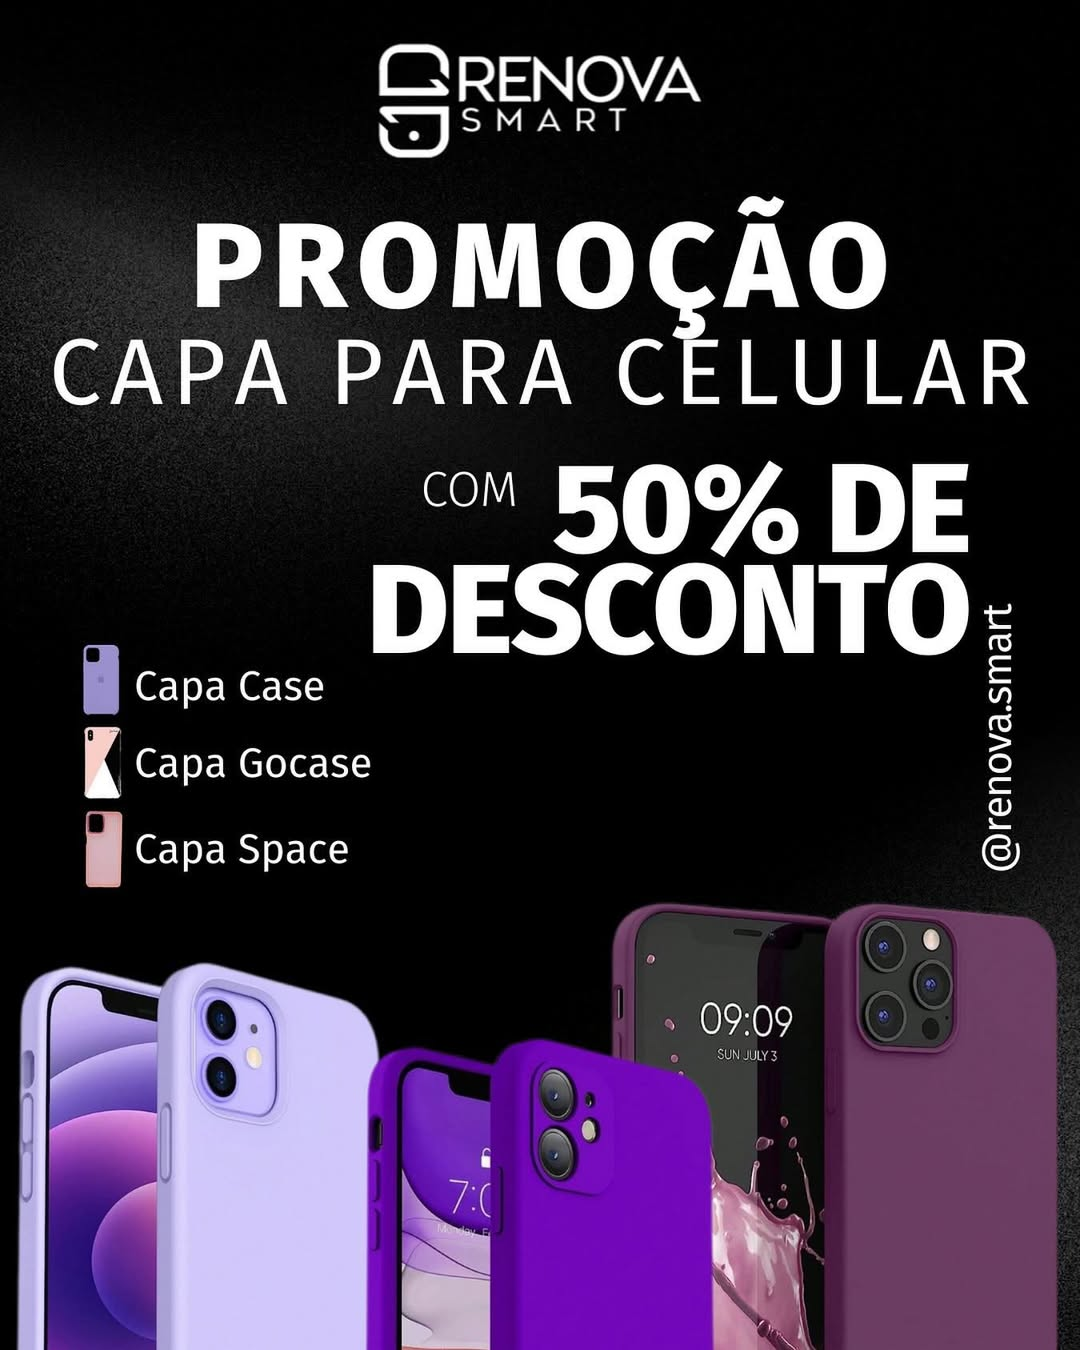
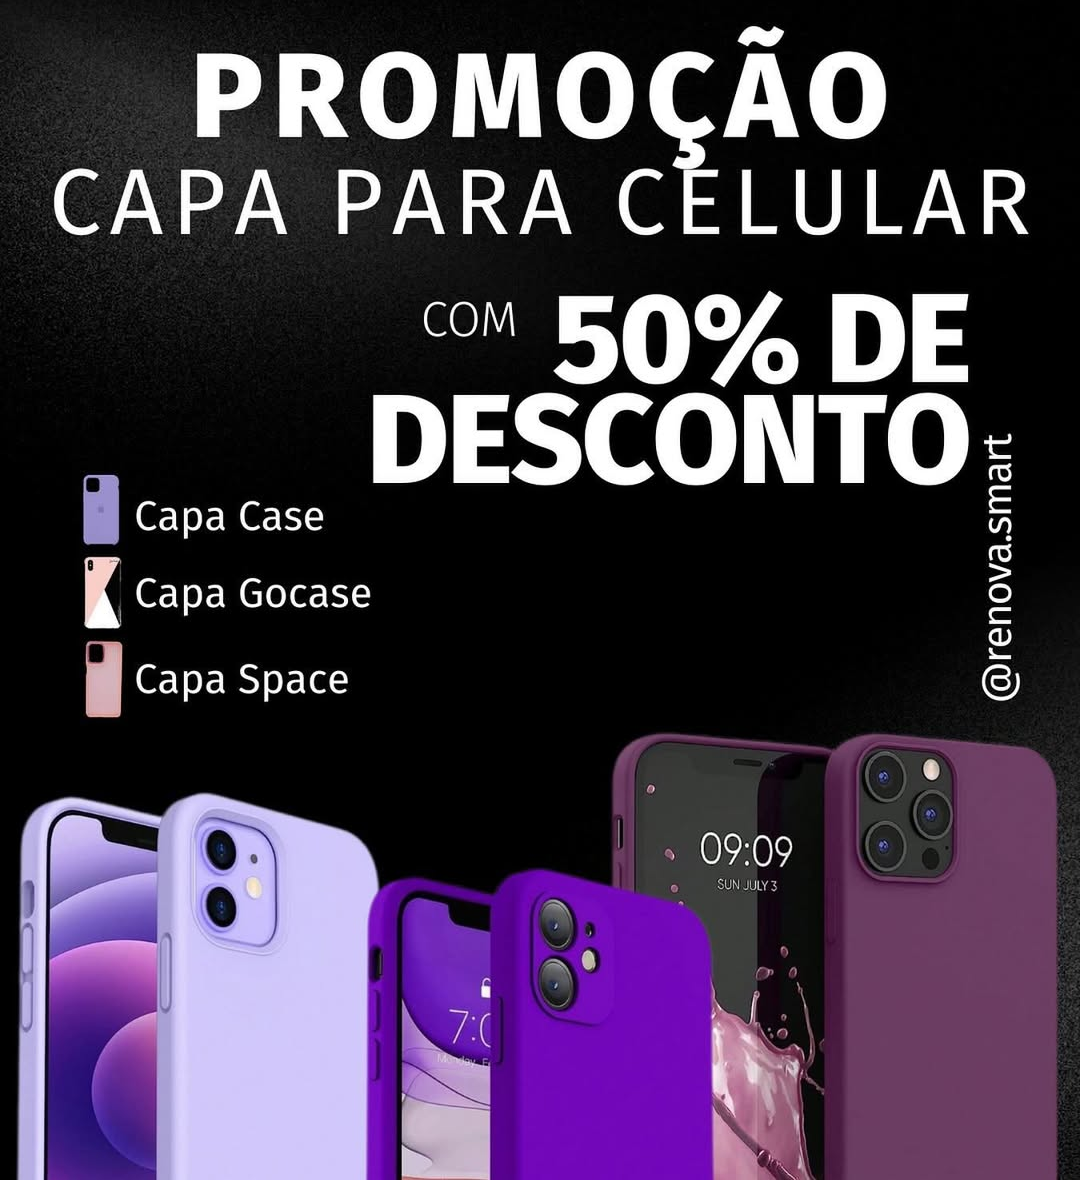
Atualização corte na imagem

Changed region(s): [[0.0, 0.0, 1.0, 0.9763], [0.7028, 0.9763, 0.7333, 1.0]]

diff --git a/estilo/estilo.css b/estilo/estilo.css
@@ -241,7 +241,7 @@ div.imagem img {
     height: auto;    /* Mantém a proporção */
 }
 
-@media (min-width: 1000px) {
+@media (min-width: 1024px) {
     div.imagem img {
         max-width: 70%; /* Reduz a largura da imagem em telas maiores */
         height: auto;   /* Mantém a proporção da imagem */
